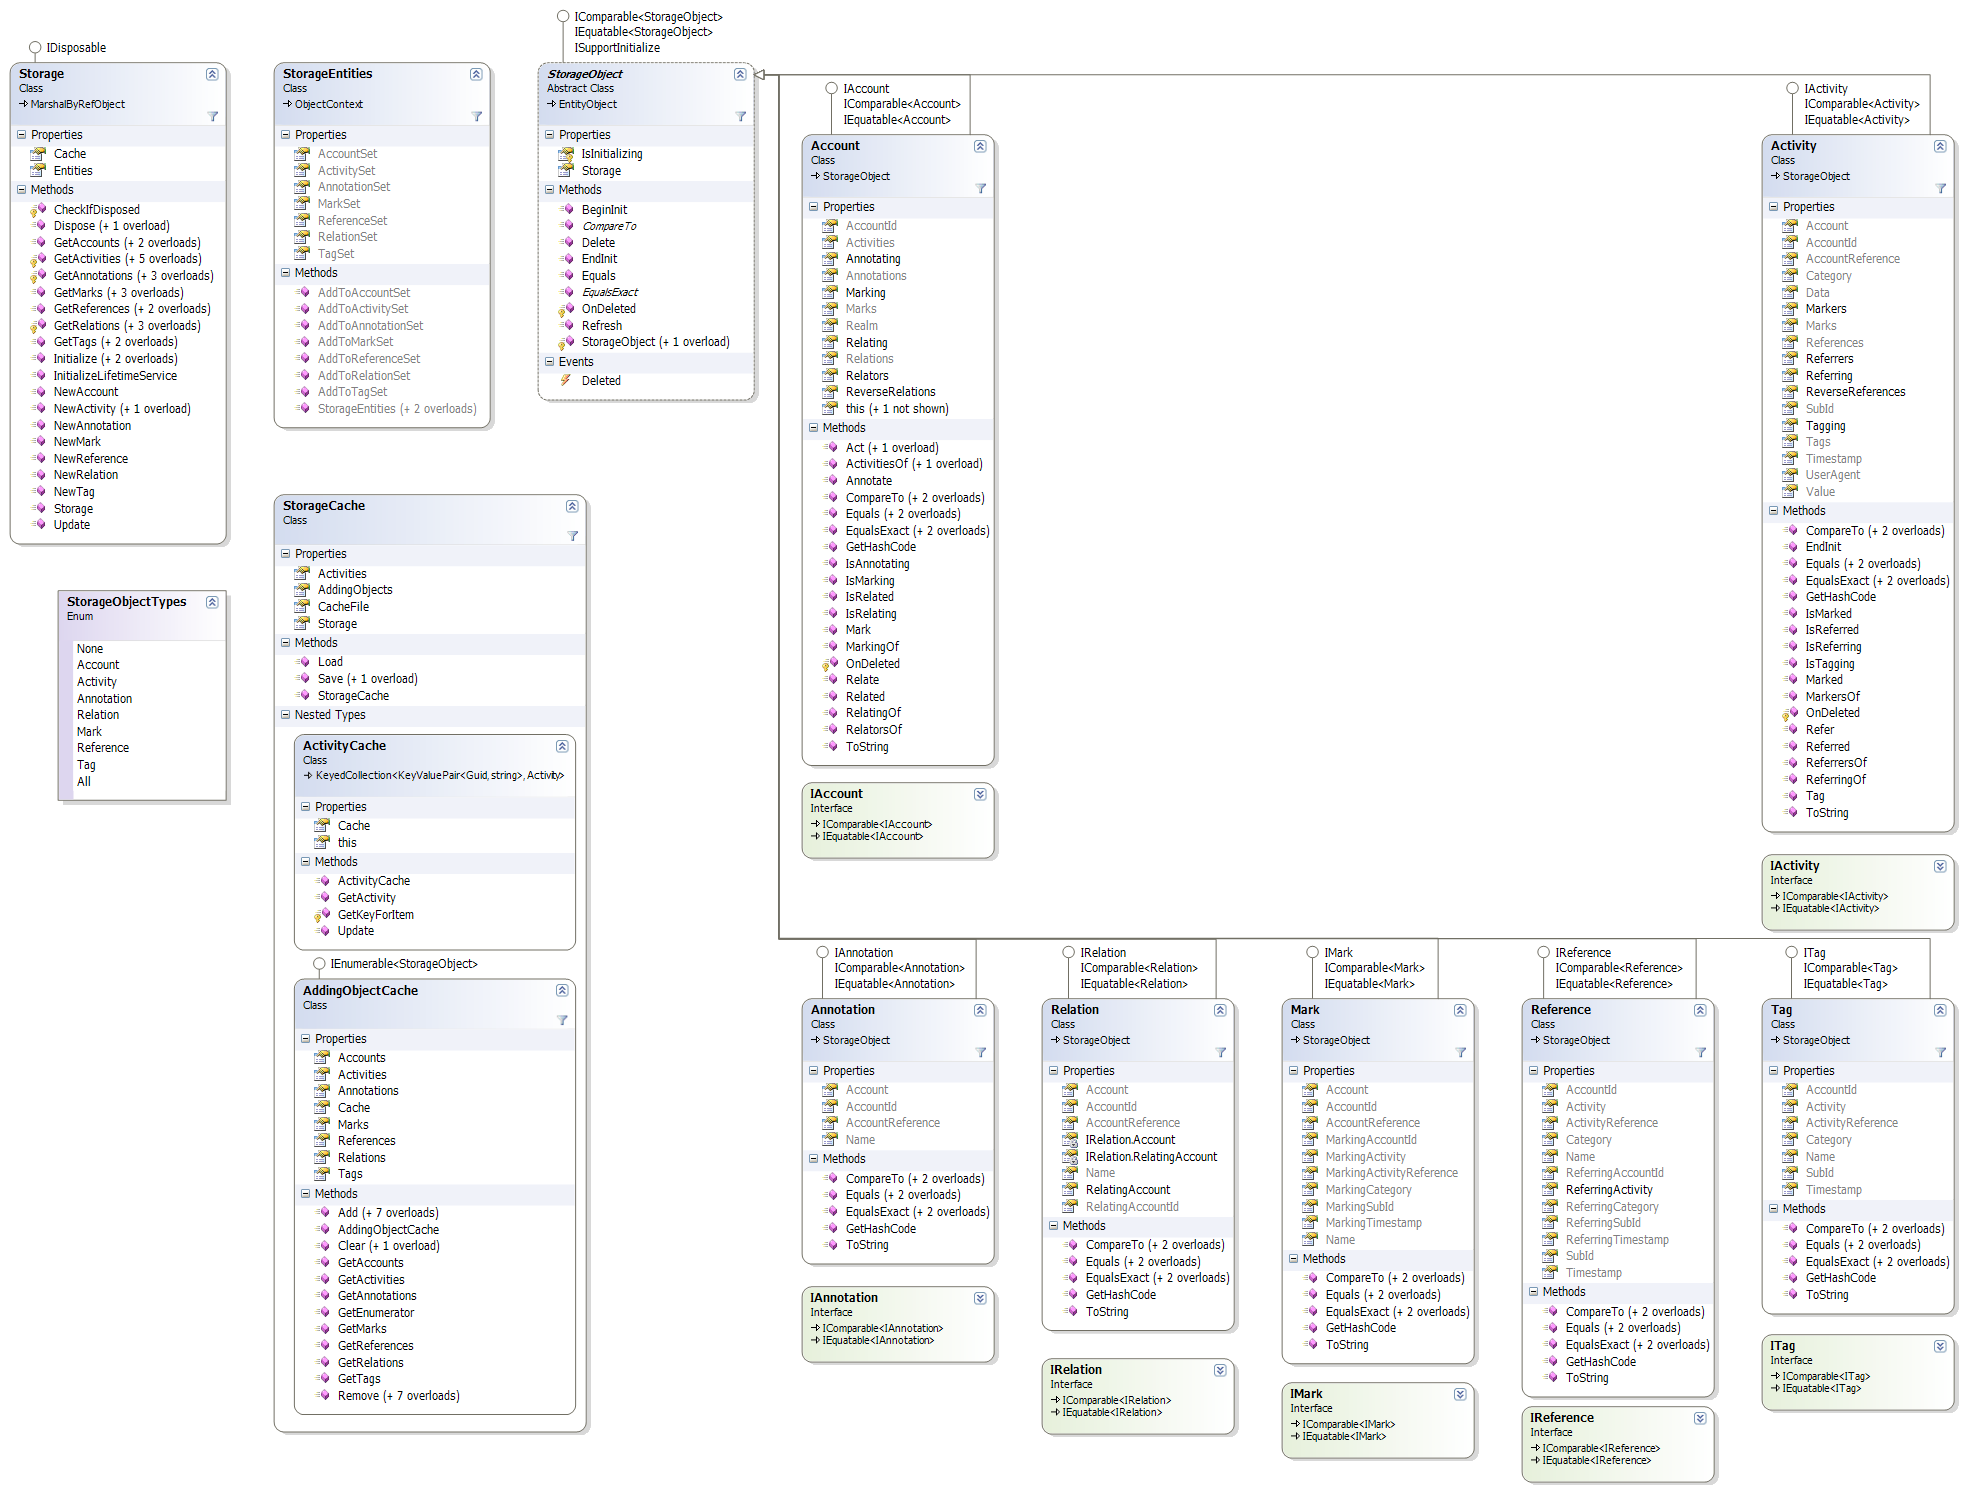
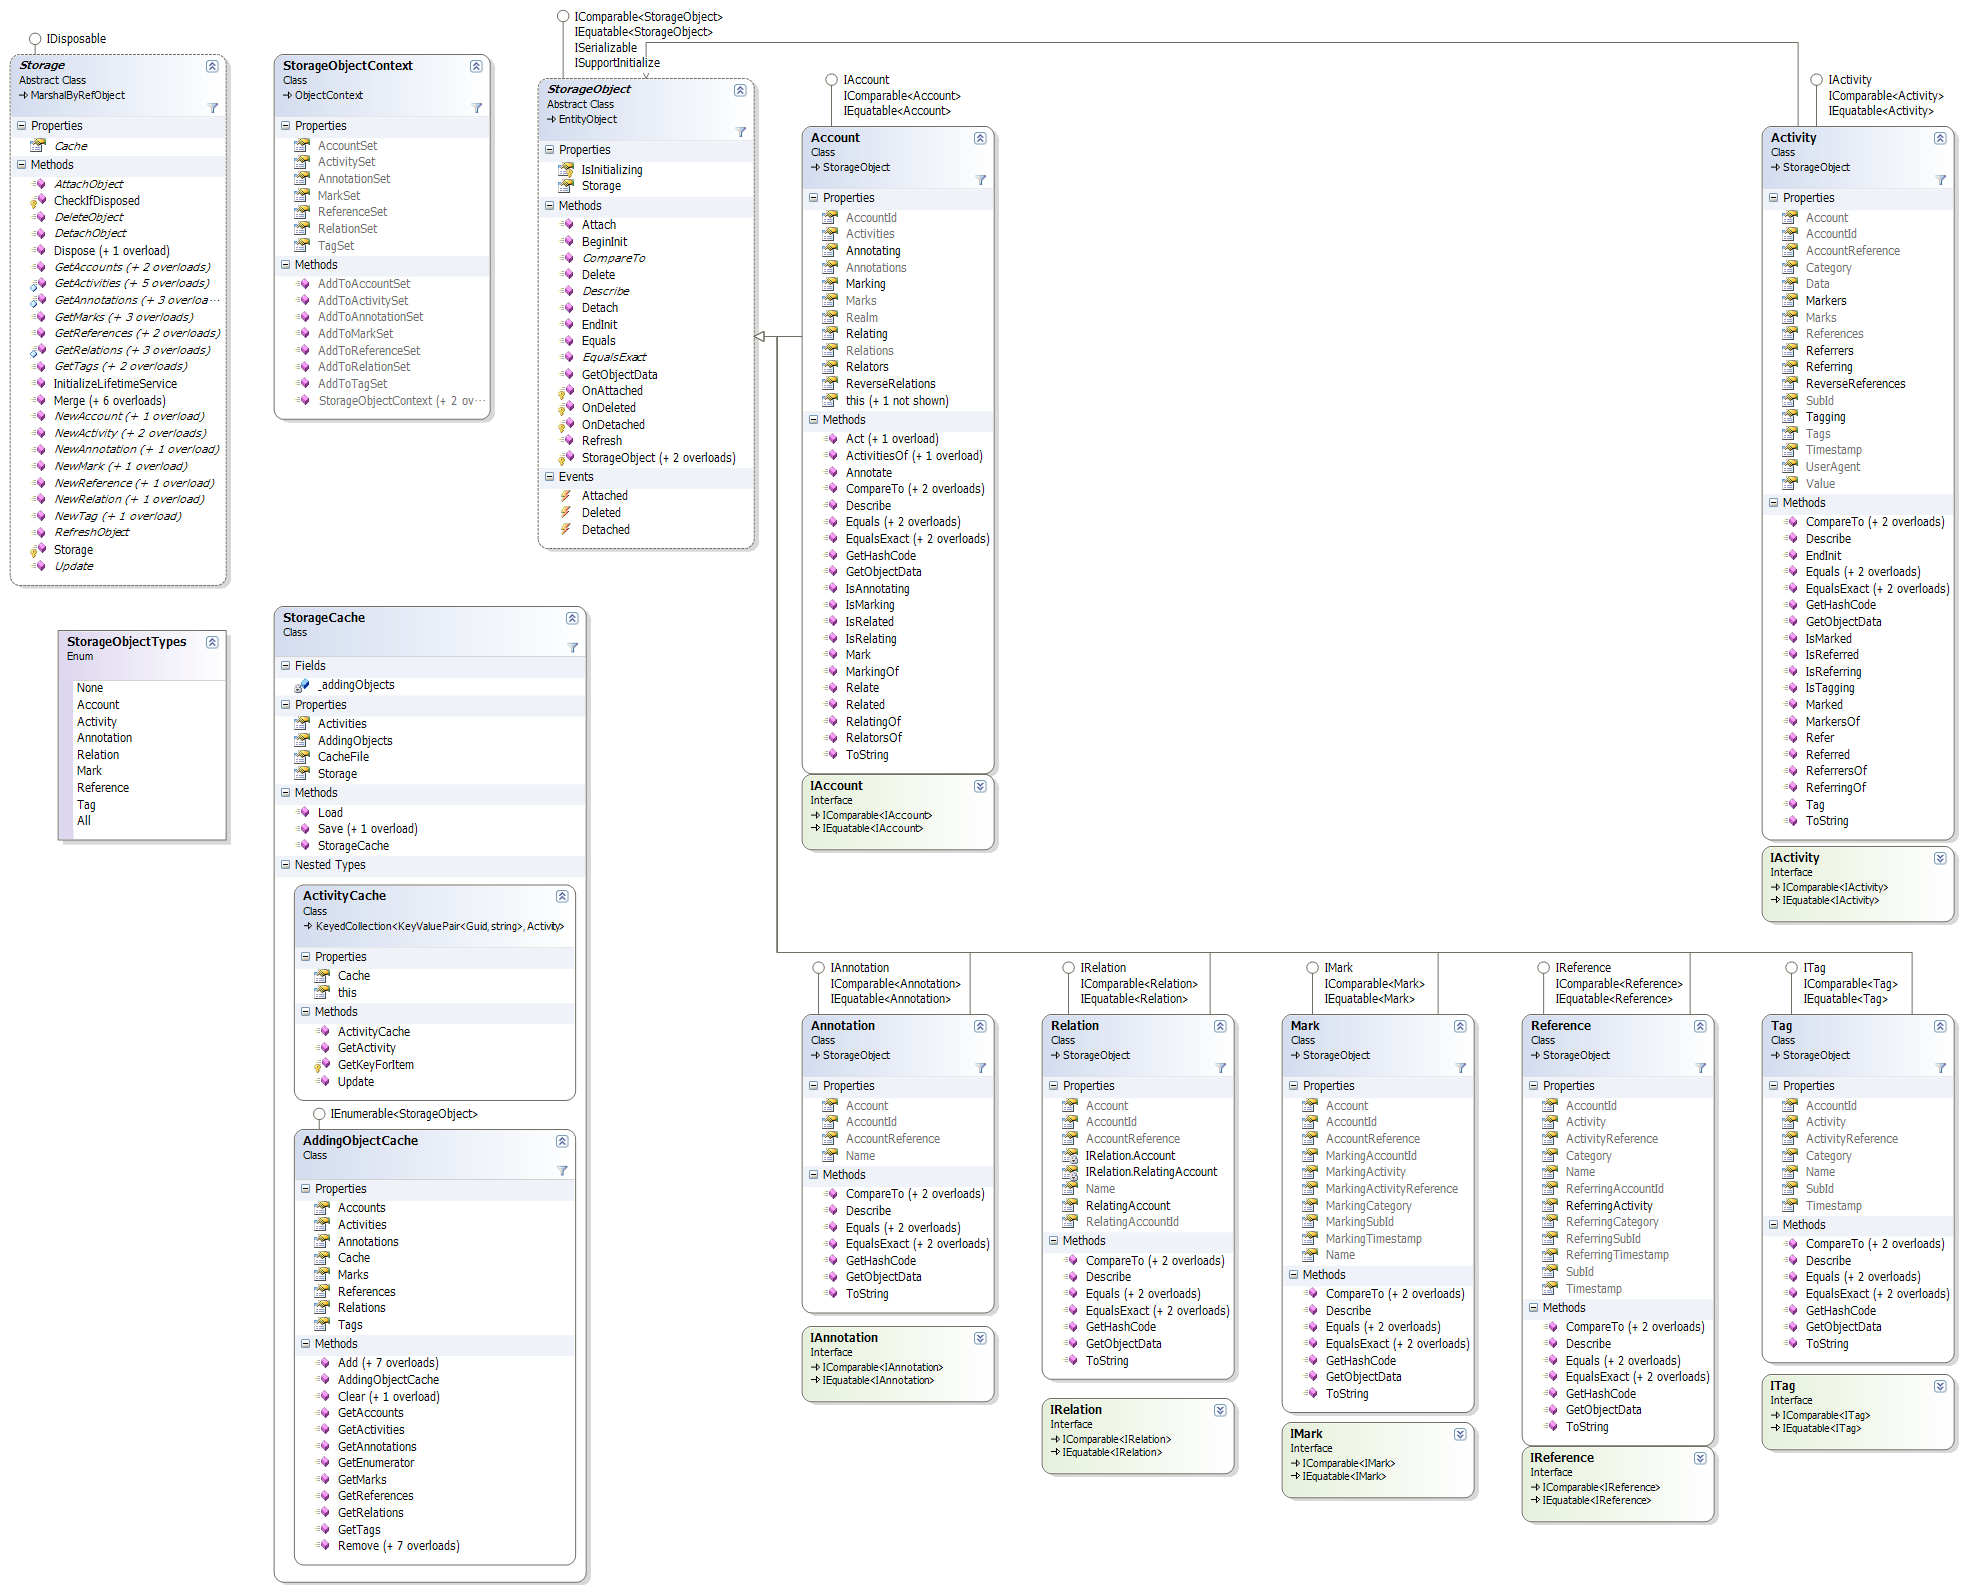
Add StorageObject#Describe() method, modify ToString() methods
Add Describe() method in StorageObject and derived classes, is same as present
ToString() implementations, and modified ToString() method, remove informations
which is not Entity Key (therefore ToString() now returns constant value).
Updated class diagrams.

Changed region(s): [[0.2797, 0.0, 1.0, 1.0], [0.0, 0.0, 0.3107, 1.0]]

diff --git a/MetaTweetObjectModel/Activity.cs b/MetaTweetObjectModel/Activity.cs
@@ -169,6 +169,23 @@ namespace XSpect.MetaTweet.Objects
                 this.Category,
                 String.IsNullOrEmpty(this.SubId)
                     ? String.Empty
+                    : "(" + this.SubId + ")"
+            );
+        }
+
+        /// <summary>
+        /// このオブジェクトの完全な内容を表す <see cref="String"/> を返します。
+        /// </summary>
+        /// <returns>このオブジェクトの完全な内容を表す <see cref="String"/>。</returns>
+        public override String Describe()
+        {
+            return String.Format(
+                "Act [{0}] @ {1}: {2}{3}{4}{5}{6}",
+                this.Account.Describe(),
+                this.Timestamp.ToString("s"),
+                this.Category,
+                String.IsNullOrEmpty(this.SubId)
+                    ? String.Empty
                     : "(" + this.SubId + ")",
                 String.IsNullOrEmpty(this.Value)
                     ? String.Empty

diff --git a/MetaTweetObjectModel/Reference.cs b/MetaTweetObjectModel/Reference.cs
@@ -123,6 +123,20 @@ namespace XSpect.MetaTweet.Objects
         }
 
         /// <summary>
+        /// このオブジェクトの完全な内容を表す <see cref="String"/> を返します。
+        /// </summary>
+        /// <returns>このオブジェクトの完全な内容を表す <see cref="String"/>。</returns>
+        public override String Describe()
+        {
+            return String.Format(
+                "Ref [{0}]: {1} -> [{2}]",
+                this.Activity.Describe(),
+                this.Name,
+                this.ReferringActivity.Describe()
+            );
+        }
+
+        /// <summary>
         /// Compares the current object with another object of the same type.
         /// </summary>
         /// <param name="other">An object to compare with this object.</param>

diff --git a/MetaTweetObjectModel/Mark.cs b/MetaTweetObjectModel/Mark.cs
@@ -120,6 +120,20 @@ namespace XSpect.MetaTweet.Objects
         }
 
         /// <summary>
+        /// このオブジェクトの完全な内容を表す <see cref="String"/> を返します。
+        /// </summary>
+        /// <returns>このオブジェクトの完全な内容を表す <see cref="String"/>。</returns>
+        public override String Describe()
+        {
+            return String.Format(
+                "Mrk [{0}]: {1} -> [{2}]",
+                this.Account.Describe(),
+                this.Name,
+                this.MarkingActivity.Describe()
+            );
+        }
+
+        /// <summary>
         /// Compares the current object with another object of the same type.
         /// </summary>
         /// <param name="other">An object to compare with this object.</param>

diff --git a/MetaTweetObjectModel/Relation.cs b/MetaTweetObjectModel/Relation.cs
@@ -117,6 +117,20 @@ namespace XSpect.MetaTweet.Objects
         }
 
         /// <summary>
+        /// このオブジェクトの完全な内容を表す <see cref="String"/> を返します。
+        /// </summary>
+        /// <returns>このオブジェクトの完全な内容を表す <see cref="String"/>。</returns>
+        public override String Describe()
+        {
+            return String.Format(
+                "Rel [{0}]: {1} -> [{2}]",
+                this.Account.Describe(),
+                this.Name,
+                this.RelatingAccount.Describe()
+            );
+        }
+
+        /// <summary>
         /// Compares the current object with another object of the same type.
         /// </summary>
         /// <param name="other">An object to compare with this object.</param>

diff --git a/MetaTweetObjectModel/Tag.cs b/MetaTweetObjectModel/Tag.cs
@@ -117,6 +117,19 @@ namespace XSpect.MetaTweet.Objects
         }
 
         /// <summary>
+        /// このオブジェクトの完全な内容を表す <see cref="String"/> を返します。
+        /// </summary>
+        /// <returns>このオブジェクトの完全な内容を表す <see cref="String"/>。</returns>
+        public override String Describe()
+        {
+            return String.Format(
+                "Tag [{0}]: {1}",
+                this.Activity.Describe(),
+                this.Name
+            );
+        }
+
+        /// <summary>
         /// Compares the current object with another object of the same type.
         /// </summary>
         /// <param name="other">An object to compare with this object.</param>

diff --git a/MetaTweetObjectModel/Annotation.cs b/MetaTweetObjectModel/Annotation.cs
@@ -114,6 +114,19 @@ namespace XSpect.MetaTweet.Objects
         }
 
         /// <summary>
+        /// このオブジェクトの完全な内容を表す <see cref="String"/> を返します。
+        /// </summary>
+        /// <returns>このオブジェクトの完全な内容を表す <see cref="String"/>。</returns>
+        public override String Describe()
+        {
+            return String.Format(
+                "Ann [{0}]: {1}",
+                this.Account.Describe(),
+                this.Name
+            );
+        }
+
+        /// <summary>
         /// Compares the current object with another object of the same type.
         /// </summary>
         /// <param name="other">An object to compare with this object.</param>

diff --git a/MetaTweetObjectModel/StorageObject.cs b/MetaTweetObjectModel/StorageObject.cs
@@ -216,6 +216,12 @@ namespace XSpect.MetaTweet.Objects
         }
 
         /// <summary>
+        /// このオブジェクトの完全な内容を表す <see cref="String"/> を返します。
+        /// </summary>
+        /// <returns>このオブジェクトの完全な内容を表す <see cref="String"/>。</returns>
+        public abstract String Describe();
+
+        /// <summary>
         /// アタッチ後の処理を完了した後に <see cref="Attached"/> イベントを発生させます。
         /// </summary>
         /// <param name="e">イベント データを格納している <see cref="ObjectStateEventArgs"/>。</param>

diff --git a/MetaTweetObjectModel/Account.cs b/MetaTweetObjectModel/Account.cs
@@ -182,6 +182,15 @@ namespace XSpect.MetaTweet.Objects
         /// </returns>
         public override String ToString()
         {
+            return "Acc " + this.AccountId.ToString("D");
+        }
+
+        /// <summary>
+        /// このオブジェクトの完全な内容を表す <see cref="String"/> を返します。
+        /// </summary>
+        /// <returns>このオブジェクトの完全な内容を表す <see cref="String"/>。</returns>
+        public override String Describe()
+        {
             return String.Format(
                 "Acc {0}@{1}",
                 this.AccountId.ToString("D"),
